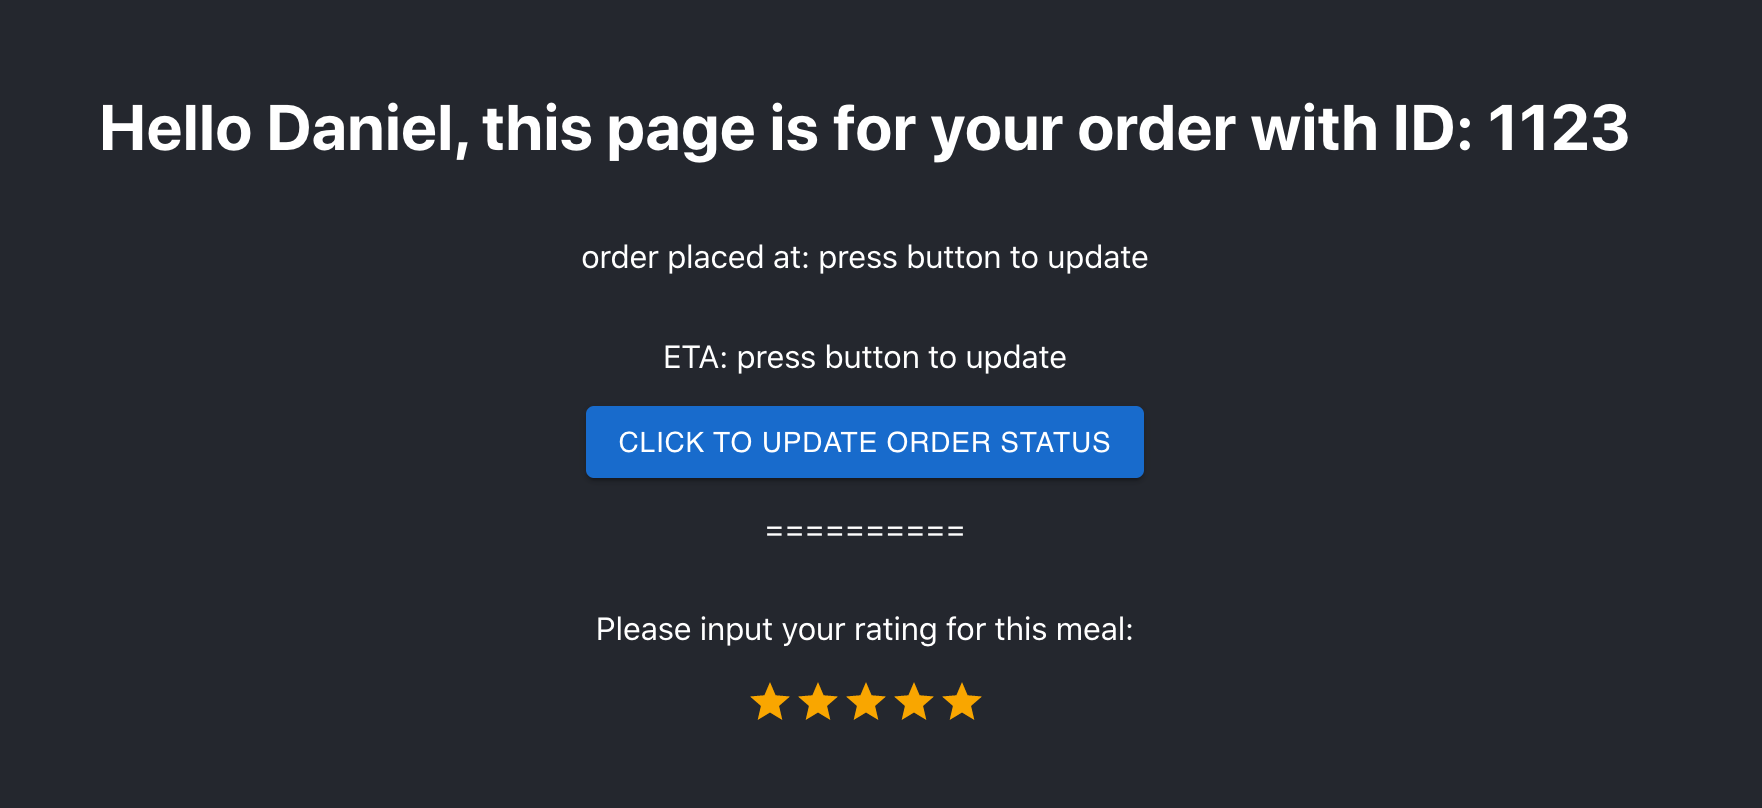
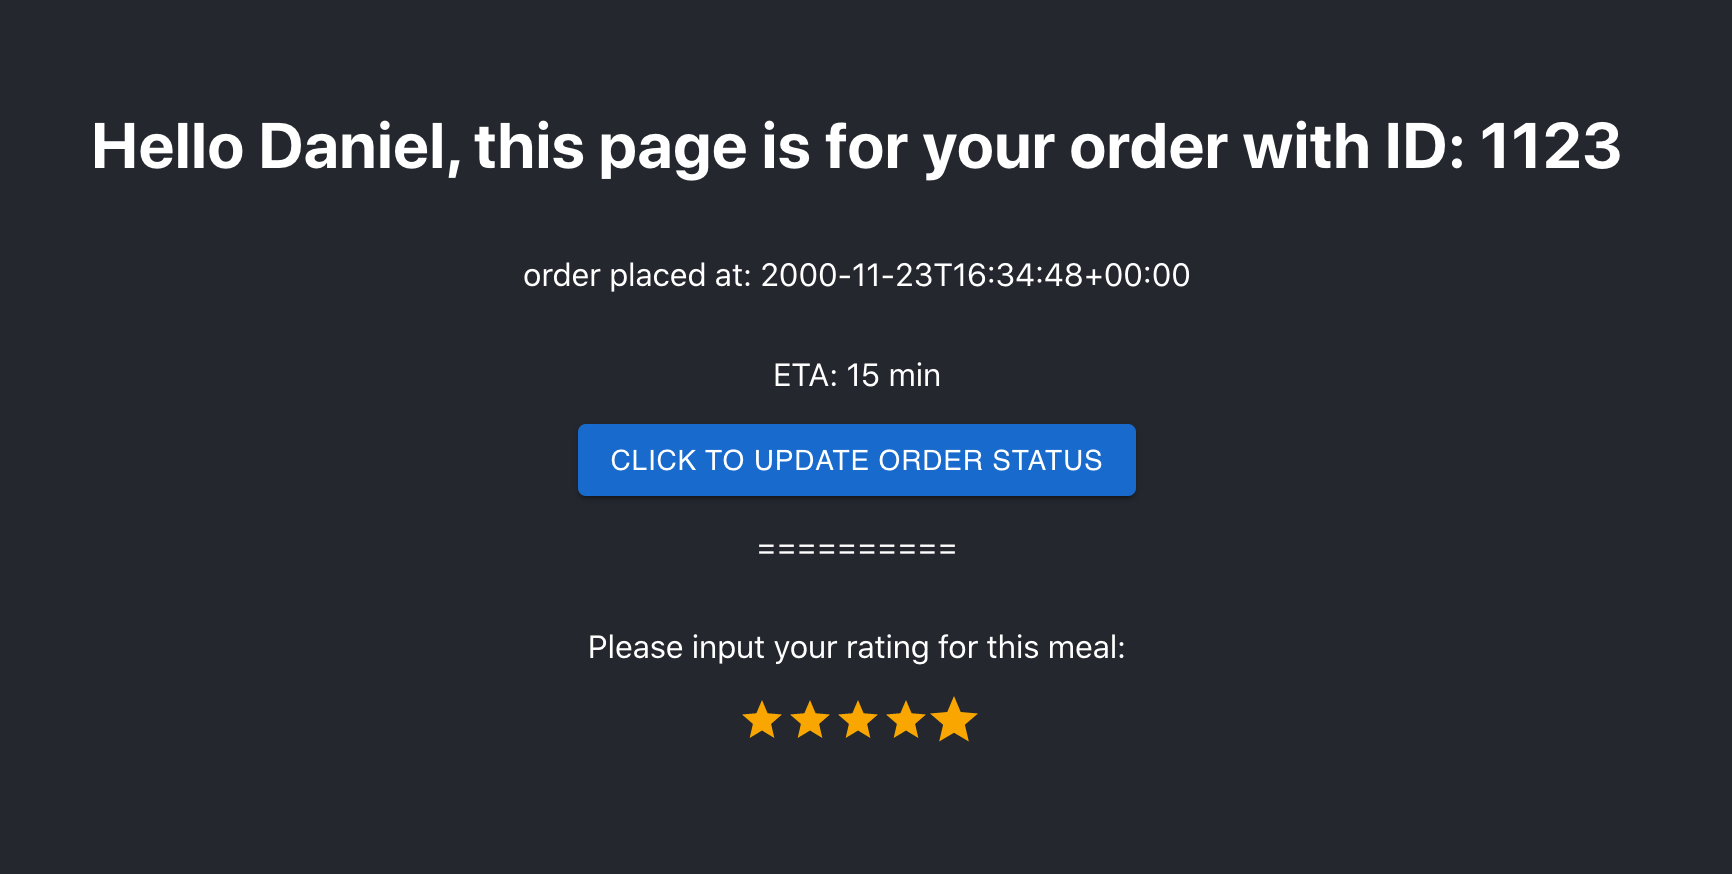
update readme

diff --git a/backend/app/apis/routes.py b/backend/app/apis/routes.py
@@ -85,8 +85,8 @@ def test():
     print(data)
 
     response = {
-        "orderTime": "123-456-789",
-        "eta": 123
+        "orderTime": "2000-11-23T16:34:48+00:00",
+        "eta": "15 min"
     }
     return jsonify(response)
 
